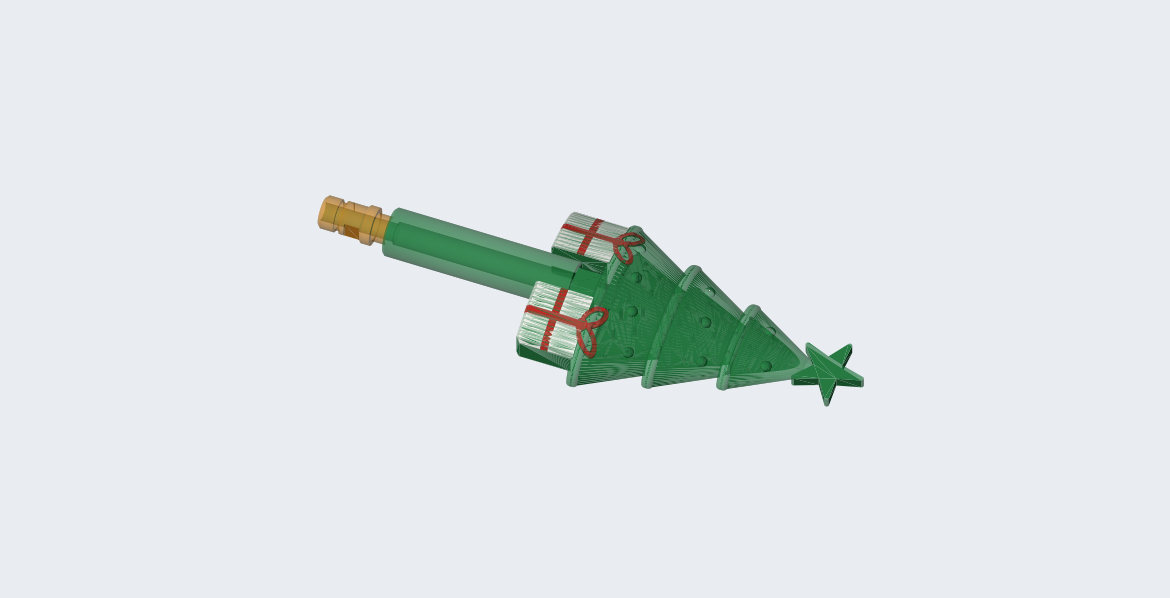
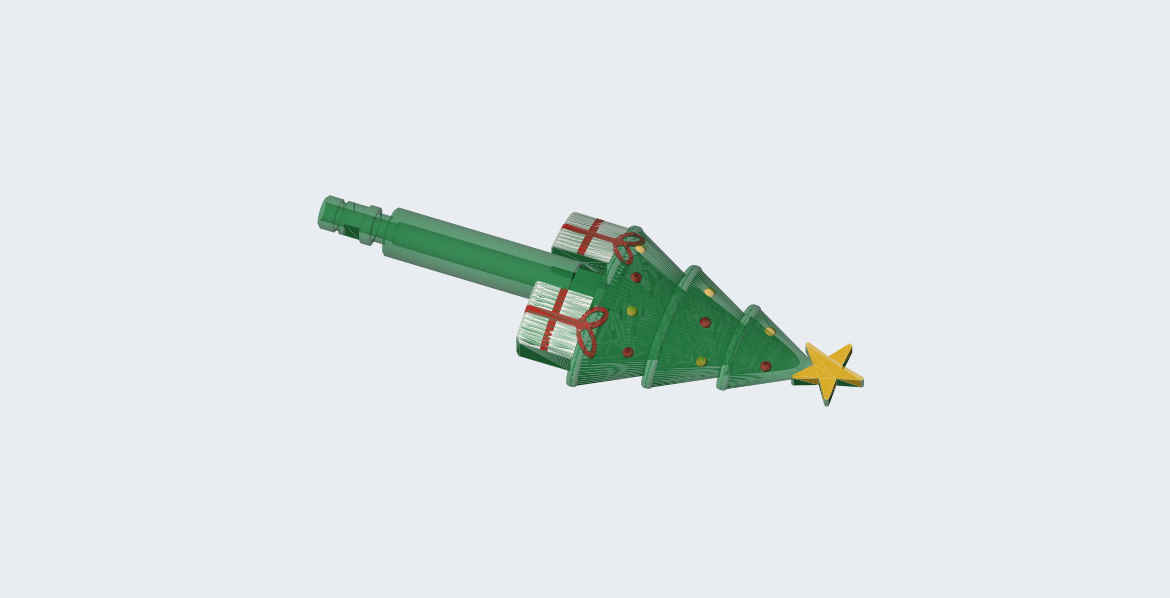
Weihnachtsbaum-Duschkopf: Vorschaubilder in echten Druckfarben
bilder.py liest jetzt die 3MFs statt der STLs und färbt jedes Dreieck
nach dem Filament seines Bauteils und der Bemalung (überwiegende
Farbe). Bisher war der Stecker zur Hervorhebung orange und Stern und
Kugeln wurden grün gezeigt, so sah es aus, als wäre der Stecker gelb.
An der 3MF selbst ändert sich nichts.

Claude-Session: https://claude.ai/code/session_01JDU9ZD8zwLBPGNtPvnxfnM

diff --git a/dusche-weihnachtsbaum/werkzeuge/bilder.py b/dusche-weihnachtsbaum/werkzeuge/bilder.py
@@ -1,5 +1,8 @@
 #!/usr/bin/env python3
-"""Vorschaubilder für das README aus den von erzeuge_modell.py geschriebenen STLs.
+"""Vorschaubilder für das README aus den von erzeuge_modell.py geschriebenen 3MFs.
+
+Gezeigt werden die Druckfarben: Filament je Bauteil plus die Bemalung (paint_color)
+je Dreieck, vereinfacht auf die flächenmäßig überwiegende Farbe.
 
 Aufruf: python3 bilder.py <ausgabe_ordner> <zielordner>
 Benötigt numpy, trimesh, shapely, matplotlib.
@@ -7,35 +10,71 @@ Benötigt numpy, trimesh, shapely, matplotlib.
 import sys
 from pathlib import Path
 
+import re
+import zipfile
+
 import numpy as np
 import trimesh
+from lxml import etree
 import matplotlib
 matplotlib.use("Agg")
 import matplotlib.pyplot as plt
 from mpl_toolkits.mplot3d.art3d import Poly3DCollection
 
 plt.rcParams.update({"font.family": "DejaVu Sans", "font.size": 9})
-FARBE = {"baum": (0.16, 0.52, 0.28), "stecker": (0.85, 0.55, 0.15),
-         "geschenke": (0.96, 0.96, 0.94), "schleifen": (0.82, 0.15, 0.15)}
+# Filamente wie in erzeuge_modell.py: 1 Grün, 2 Rot, 3 Gold, 4 Weiß
+FILAMENT = {1: (0.16, 0.52, 0.28), 2: (0.82, 0.15, 0.15), 3: (0.93, 0.74, 0.18), 4: (0.96, 0.96, 0.94)}
+NS = {"m": "http://schemas.microsoft.com/3dmanufacturing/core/2015/02"}
 X_STECKER = -97.5 + 6.35   # Anlagefläche des Steckers im zentrierten Modell
 ACHSE_Z = -0.625
 NAME = "weihnachtsbaum_dusche_quick_connect"
 
 
+def ueberwiegend(code):
+    """Flächenmäßig überwiegender Zustand eines paint_color-Baums (0 = unbemalt)."""
+    nib = [int(c, 16) for c in reversed(code)]
+    anteil, i = {}, 0
+
+    def knoten(gewicht):
+        nonlocal i
+        c = nib[i]; i += 1
+        if c & 3:
+            for _ in range((c & 3) + 1):
+                knoten(gewicht / ((c & 3) + 1))
+            return
+        if (c & 12) == 12:
+            z = nib[i] + 3; i += 1
+        else:
+            z = c >> 2
+        anteil[z] = anteil.get(z, 0) + gewicht
+
+    knoten(1.0)
+    return max(anteil, key=anteil.get)
+
+
 def teile(ordner, geschenke):
-    if not geschenke:
-        return [("baum", trimesh.load(ordner / f"{NAME}.stl"))]
-    return [(t, trimesh.load(ordner / f"{NAME}_geschenke_{t}.stl")) for t in ("baum", "geschenke", "schleifen")]
+    """-> Liste (Name, Trimesh, Farbe je Dreieck) aus der 3MF."""
+    datei = ordner / (f"{NAME}_geschenke.3mf" if geschenke else f"{NAME}.3mf")
+    z = zipfile.ZipFile(datei)
+    filament = {int(i): int(f) for i, f in re.findall(
+        r'<part id="(\d+)".*?key="extruder" value="(\d+)"', z.read("Metadata/model_settings.config").decode(), re.S)}
+    t = etree.fromstring(z.read("3D/Objects/object_1.model"))
+    out = []
+    for o in t.iterfind(".//m:object", NS):
+        v = np.array([[float(e.get(k)) for k in "xyz"] for e in o.iterfind(".//m:vertex", NS)])
+        tri = list(o.iterfind(".//m:triangle", NS))
+        f = np.array([[int(e.get(k)) for k in ("v1", "v2", "v3")] for e in tri])
+        grund = filament[int(o.get("id"))]
+        farbe = np.array([FILAMENT[(ueberwiegend(e.get("paint_color")) if e.get("paint_color") else 0) or grund]
+                          for e in tri])
+        out.append((o.get("id"), trimesh.Trimesh(v, f, process=False), farbe))
+    return out
 
 
-def flaechen(name, m, licht):
-    tri, n = m.triangles, m.face_normals
+def flaechen(m, farbe, licht):
     l = np.array(licht) / np.linalg.norm(licht)
-    h = 0.35 + 0.65 * np.clip(n @ l, 0, 1)
-    farbe = np.tile(FARBE[name], (len(tri), 1))
-    if name == "baum":
-        farbe[tri[:, :, 0].max(axis=1) < X_STECKER + 0.01] = FARBE["stecker"]
-    return tri, np.clip(farbe * h[:, None], 0, 1)
+    h = 0.35 + 0.65 * np.clip(m.face_normals @ l, 0, 1)
+    return m.triangles, np.clip(farbe * h[:, None], 0, 1)
 
 
 def ansicht(tl, datei, elev, azim, grenzen, groesse, licht=(-0.4, -0.6, 0.9)):
@@ -43,8 +82,9 @@ def ansicht(tl, datei, elev, azim, grenzen, groesse, licht=(-0.4, -0.6, 0.9)):
     ax = fig.add_subplot(projection="3d", computed_zorder=False)
     e, az = np.radians(elev), np.radians(azim)
     blick = np.array([np.cos(e) * np.cos(az), np.cos(e) * np.sin(az), np.sin(e)])  # zur Kamera
-    tl = [(n, m.submesh([np.nonzero(m.face_normals @ blick > 0)[0]], append=True)) for n, m in tl]
-    tri, fc = zip(*(flaechen(n, m, licht) for n, m in tl))
+    sichtbar = [(m, c, np.nonzero(m.face_normals @ blick > 0)[0]) for _, m, c in tl]
+    tl = [(m.submesh([i], append=True), c[i]) for m, c, i in sichtbar]
+    tri, fc = zip(*(flaechen(m, c, licht) for m, c in tl))
     ax.add_collection3d(Poly3DCollection(np.concatenate(tri), facecolors=np.concatenate(fc), linewidths=0))
     lo, hi = grenzen
     ax.set_xlim(lo[0], hi[0]); ax.set_ylim(lo[1], hi[1]); ax.set_zlim(lo[2], hi[2])
@@ -58,28 +98,6 @@ def ansicht(tl, datei, elev, azim, grenzen, groesse, licht=(-0.4, -0.6, 0.9)):
     plt.close(fig)
 
 
-def draufsicht(tl, datei, xlim, titel):
-    """Schnitt bei halber Stärke, von oben, farbig je Teil."""
-    fig, ax = plt.subplots(figsize=(7, 4.6), dpi=130)
-    for name, m in tl:
-        s = m.section(plane_origin=[0, 0, 0], plane_normal=[0, 0, 1])
-        if s is None:
-            continue
-        p, T = s.to_2D()
-        for pl in p.polygons_full:
-            def xy(c):
-                c = np.asarray(c)
-                return trimesh.transform_points(np.c_[c, np.zeros(len(c))], T)[:, :2]
-            e = xy(pl.exterior.coords)
-            ax.fill(e[:, 0], e[:, 1], color=FARBE[name], ec="#333", lw=0.5)
-            for h in pl.interiors:
-                q = xy(h.coords)
-                ax.fill(q[:, 0], q[:, 1], color="white", ec="#333", lw=0.5)
-    ax.set_xlim(*xlim); ax.set_ylim(-45, 45); ax.set_aspect("equal")
-    ax.set_facecolor("#e9edf2"); ax.set_xlabel("mm"); ax.set_title(titel)
-    fig.tight_layout(); fig.savefig(datei); plt.close(fig)
-
-
 def schnitt(m, datei):
     s = m.section(plane_origin=[0, 0, ACHSE_Z], plane_normal=[0, 0, 1])
     p, T = s.to_2D()
@@ -90,7 +108,7 @@ def schnitt(m, datei):
         for h in pl.interiors:
             q = trimesh.transform_points(np.c_[np.asarray(h.coords), np.zeros(len(h.coords))], T)
             ax.fill(q[:, 0], q[:, 1], color="white", ec="#2e8c4d", lw=0.8)
-    ax.axvline(X_STECKER, color=FARBE["stecker"], ls="--", lw=1)
+    ax.axvline(X_STECKER, color="#a0601a", ls="--", lw=1)
     ax.text(X_STECKER + 1, 12.5, "Anlagefläche", color="#a0601a", va="top")
     ax.text(-119, -13.5, "Rastnut ø12,3 · Bund ø16,7 · O-Ring-Nut · Bohrung ø7,94 → Griff ø21,25 / Bohrung ø10", fontsize=8)
     ax.set_xlim(-123, -55); ax.set_ylim(-15, 14)
@@ -107,8 +125,10 @@ if __name__ == "__main__":
     alles = np.array([[-122, -43, -11], [122, 43, 11]])
     ansicht(einfach, out / "uebersicht.png", 35, -60, alles, (8, 5))
     ansicht(mit, out / "geschenke.png", 55, -70, alles, (9, 4.6), licht=(-0.3, -0.5, 1))
-    nah = [(n, m.slice_plane([30, 0, 0], [-1, 0, 0])) for n, m in mit]
-    nah = [(n, m.slice_plane([-35, 0, 0], [1, 0, 0])) for n, m in nah]
+    def ausschnitt(n, m, c, x0, x1):
+        i = np.nonzero((m.triangles_center[:, 0] > x0) & (m.triangles_center[:, 0] < x1))[0]
+        return n, m.submesh([i], append=True), c[i]
+    nah = [ausschnitt(n, m, c, -35, 30) for n, m, c in mit]
     ansicht(nah, out / "geschenke_draufsicht.png", 90, -90,
             np.array([[-35, -43, -11], [30, 43, 11]]), (6.5, 8), licht=(0.2, -0.3, 1))
     schnitt(einfach[0][1], out / "schnitt.png")

diff --git a/dusche-weihnachtsbaum/README.md b/dusche-weihnachtsbaum/README.md
@@ -34,7 +34,7 @@ Eine Variante mit LED-Stern und Wasserturbine im Griff ist in Planung: [`../dusc
 ```sh
 python3 werkzeuge/erzeuge_modell.py DuchaArbolBolas.3mf ausgabe/              # Standard
 python3 werkzeuge/erzeuge_modell.py DuchaArbolBolas.3mf ausgabe/ --geschenke  # mit Geschenken
-python3 werkzeuge/bilder.py ausgabe/ bilder/                                  # braucht beide Varianten
+python3 werkzeuge/bilder.py ausgabe/ bilder/                                  # braucht beide 3MFs, zeigt die Druckfarben
 ```
 
 Benötigt: OpenSCAD (getestet 2021.01), Python mit `numpy trimesh manifold3d lxml shapely` (für die Bilder zusätzlich `matplotlib`).
